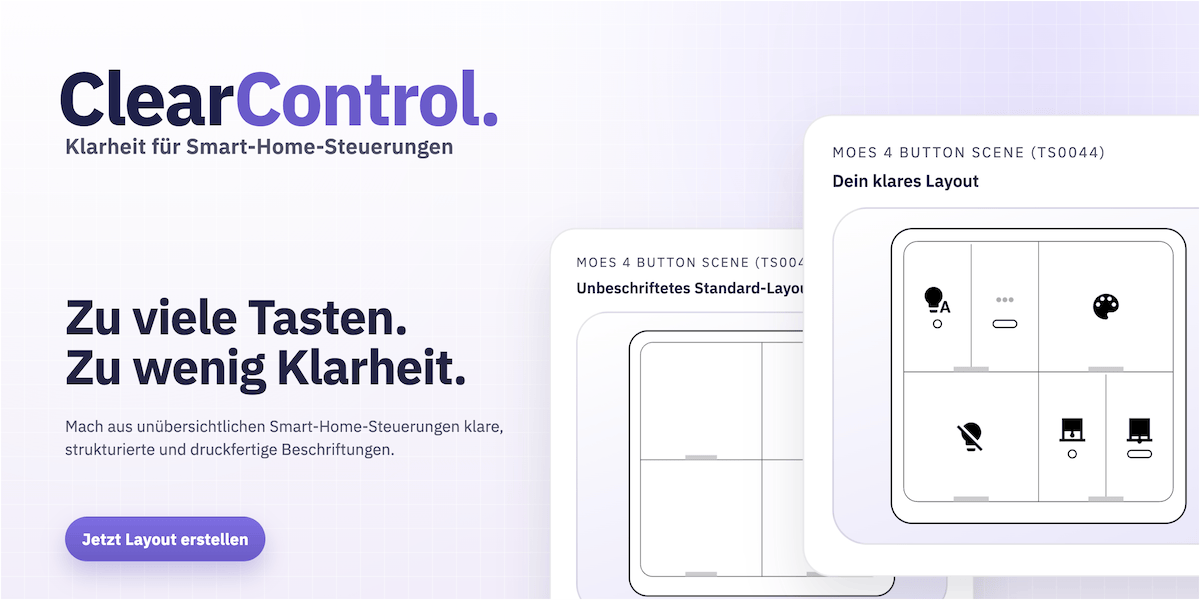
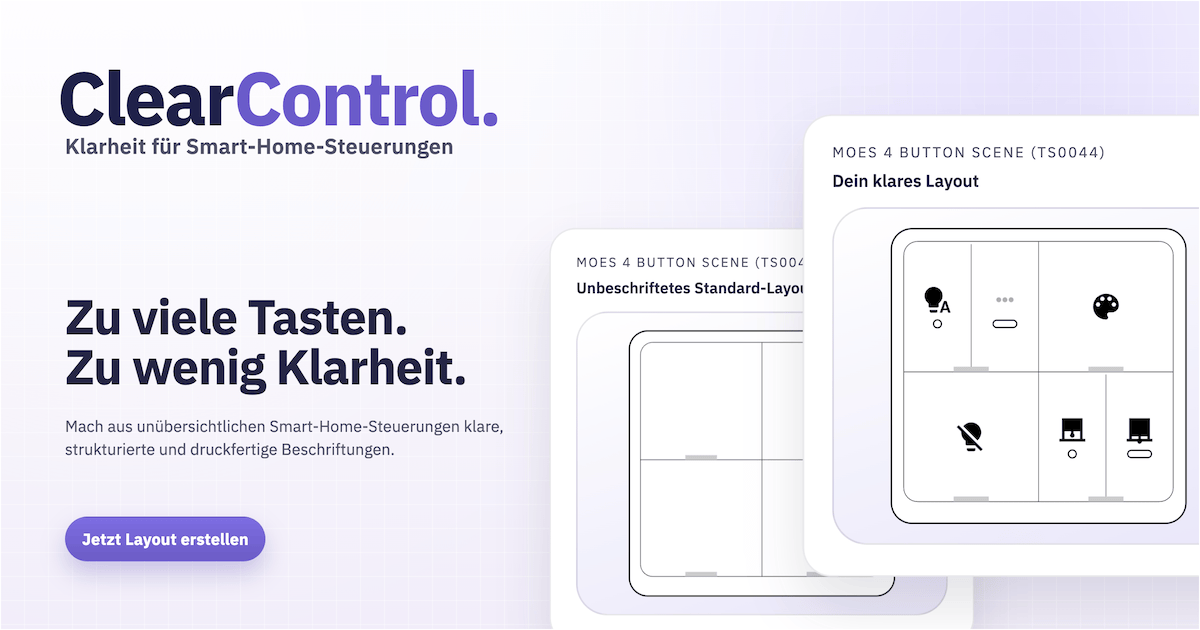
Change og img size

diff --git a/src/App.css b/src/App.css
@@ -194,7 +194,7 @@ main {
 .ogCanvas {
   position: relative;
   width: 1200px;
-  height: 600px;
+  height: 630px;
   /* border-radius: 26px; */
   overflow: hidden;
   border: 1px solid rgba(255, 255, 255, 0.55);
